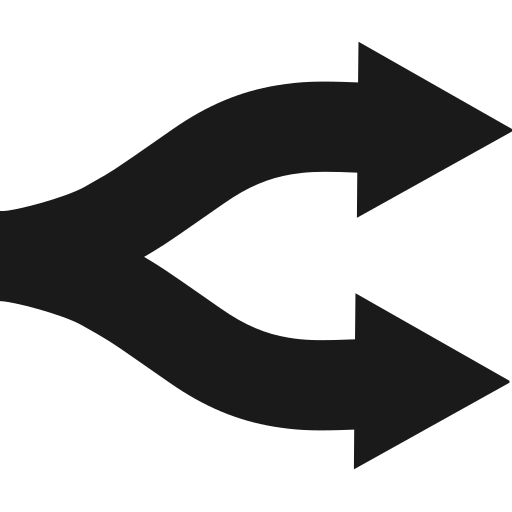
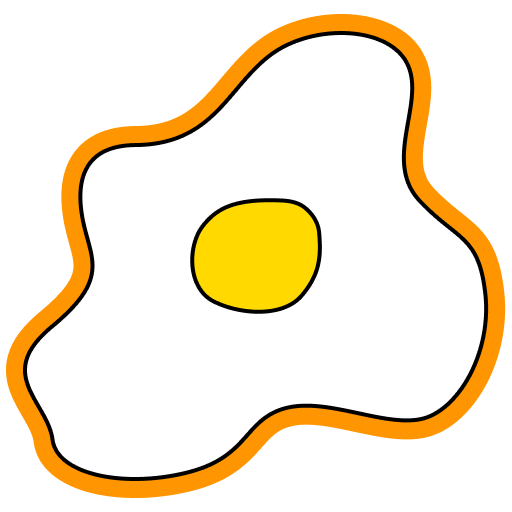
adding summarise, translate, improve into readme and images

diff --git a/src/api/openrouter.ts b/src/api/openrouter.ts
@@ -34,7 +34,7 @@ export async function generateStreamedResponse(
         Authorization: `Bearer ${preferences.openrouterApiKey}`,
         "Content-Type": "application/json",
         "HTTP-Referer": "https://raycast.com",
-        "X-Title": "OpenRouter",
+        "X-Title": "Omelette",
       },
       body: JSON.stringify({
         model: activeModelId,
@@ -47,7 +47,7 @@ export async function generateStreamedResponse(
 
     if (!response.ok) {
       const errorText = await response.text();
-      let errorMessage = `OpenRouter Error ${response.status}: ${response.statusText}`;
+      let errorMessage = `Omelette Error ${response.status}: ${response.statusText}`;
       try {
         const errorData = JSON.parse(errorText);
         errorMessage = errorData.error?.message || errorData.error || errorMessage;
@@ -123,7 +123,7 @@ export async function generateResponse(prompt: string, modelId?: string): Promis
       Authorization: `Bearer ${preferences.openrouterApiKey}`,
       "Content-Type": "application/json",
       "HTTP-Referer": "https://raycast.com",
-      "X-Title": "OpenRouter",
+      "X-Title": "Omelette",
     },
     body: JSON.stringify({
       model: activeModelId,

diff --git a/src/ask-question.tsx b/src/ask-question.tsx
@@ -198,7 +198,7 @@ export default function AskQuestion({ conversationId }: ChatProps) {
       {!isConfigured ? (
         <List.EmptyView
           title="Configuration Required"
-          description="Please set your OpenRouter API Key and Model ID in preferences."
+          description="Please set your OpenRouter API Key and Model ID in preferences for Omelette."
           icon={Icon.Gear}
           actions={
             <ActionPanel>

diff --git a/README.md b/README.md
@@ -1,6 +1,6 @@
-# OpenRouter for Raycast
+# Omelette for Raycast
 
-Access any AI model supported by OpenRouter directly within Raycast. This extension provides a native interface for interacting with large language models like GPT-5.4, Claude Sonnet 4.6, and NVIDIA Nemotron 3 Super, featuring real-time streaming and local conversation persistence.
+Access any AI model supported by OpenRouter directly within Raycast with Omelette. This extension provides a native interface for interacting with large language models like Claude 3.5 Sonnet, GPT-4o, and Llama 3.1, featuring real-time streaming, local conversation persistence, and powerful quick actions.
 
 Use [ORCA](https://orca.orb.town) to see listings for Openrouter models and Providers.
 